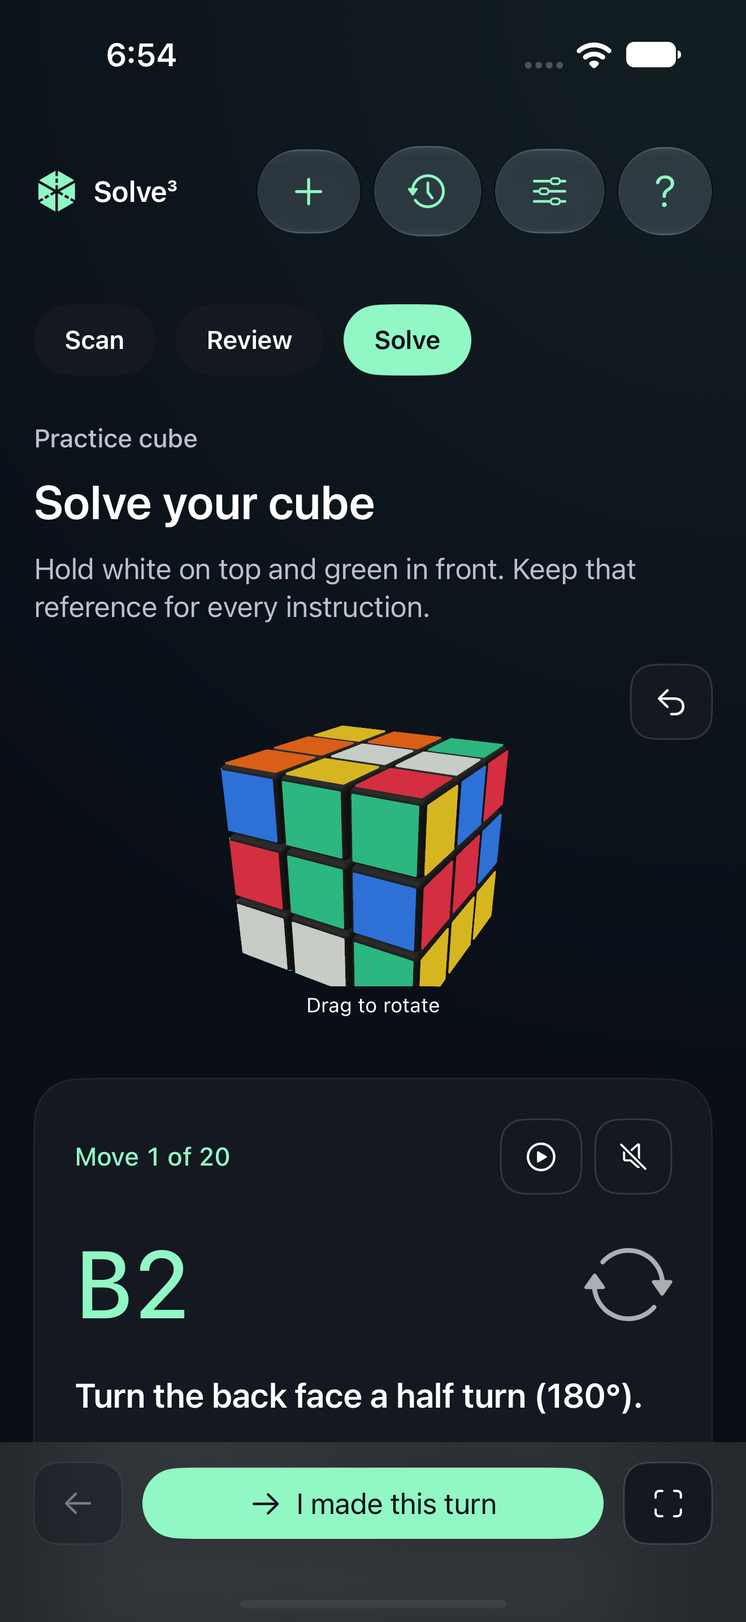
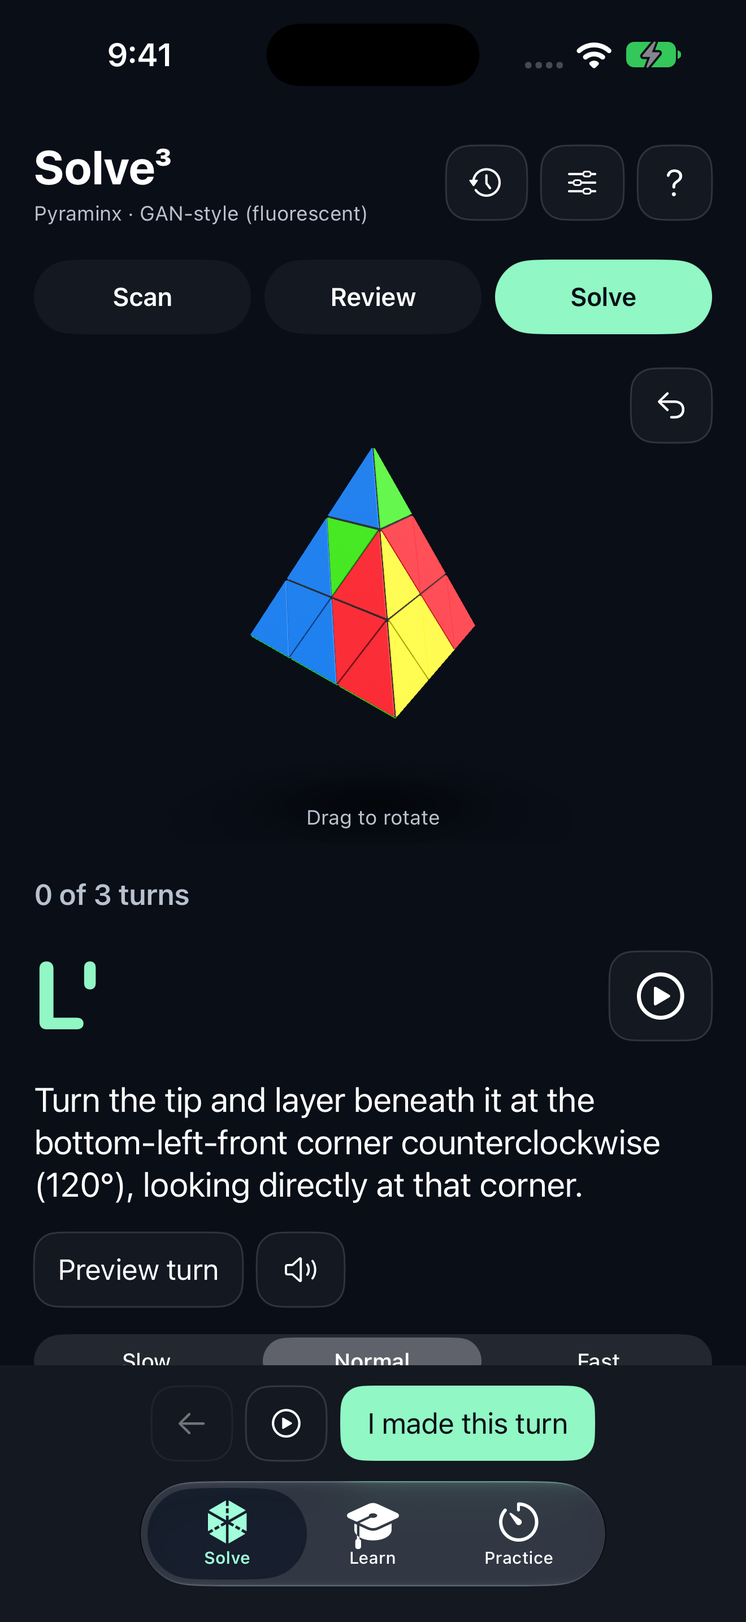
Show expanded Solve workspace with refreshed app screenshots

diff --git a/index.html b/index.html
@@ -1,1 +1,1 @@
-<!doctype html><html lang="en"><head><meta charset="utf-8"><meta name="viewport" content="width=device-width,initial-scale=1"><title>Solve³</title><meta name="description" content="Choose your puzzle. Capture its faces, review the colors and follow animated turns. Native puzzle guidance for iPhone, iPad and Mac."><link rel="stylesheet" href="marketing.css?v=7"><link rel="icon" href="assets/app-icon.png"><link rel="apple-touch-icon" href="assets/app-icon.png"></head><body><header><a class="brand" href="index.html"><img class="brand-icon" src="assets/app-icon.png" width="40" height="40" alt=""><span>Solve³ <small>by FreeRange Labs</small></span></a><nav aria-label="Main"><a href="#how">How it works</a><a href="support.html">Support</a><a href="privacy.html">Privacy</a></nav></header><main><section class="hero"><div class="hero-copy"><p class="eyebrow">For the cube in your hands.</p><h1>One clear turn.<br><em>Then the next.</em></h1><p class="intro">A scrambled cube doesn’t need to stay a mystery. Choose a 2×2 through 7×7 cube, Pyraminx or Skewb. Capture each face, check the colors, and follow an animated 3D guide at your own pace.</p><a class="button" href="#how">See how it works <span aria-hidden="true">↘</span></a><p class="availability">iPhone, iPad &amp; Mac · $4.99 USD one-time purchase at launch · Expanded puzzle update in final QA; earlier 3×3 build awaiting App Store review</p><div class="promise"><span>On-device processing</span><span>No ads or app account</span><span>Your pace</span></div></div><div class="hero-art"><div class="orbit orbit-one"></div><div class="orbit orbit-two"></div><div class="notation" aria-hidden="true">R2 <span>U′</span> F</div><figure class="phone"><img src="assets/iphone-guide.png?v=6" alt="Actual iPhone app: a 3D practice cube, plain-language turn instruction and the I made this turn control." width="1320" height="2868"><figcaption>Original 3×3 interface · expanded update in final QA</figcaption></figure><div class="turn-chip"><span class="turn-icon" aria-hidden="true">↻</span><div><strong>Preview the layer.</strong><small>Keep your place in the solve.</small></div></div></div></section><section id="how" class="workflow"><div class="section-heading"><p class="eyebrow">A simple rhythm</p><h2>From scrambled<br>to understandable.</h2><p>Every step gives you a chance to check, correct and continue.</p></div><div class="steps"><article><span class="step">01</span><div class="scan-graphic" aria-hidden="true"><i></i><div class="tiles"><b></b><b></b><b></b><b></b><b></b><b></b><b></b><b></b><b></b></div></div><h3>Choose. Capture. Review.</h3><p>Select your puzzle in Settings, then use the main Solve screen. Capture or import each face, or enter colors manually. Orientation labels keep your reference consistent.</p></article><article><span class="step">02</span><div class="swatches" aria-hidden="true"><b></b><b></b><b></b><b></b><b></b><b></b></div><h3>Make the colors yours.</h3><p>Check every suggested sticker and confirm every face. The original 3×3 workflow includes center-color calibration; every puzzle has editable colors and matching face layouts.</p></article><article><span class="step">03</span><div class="move-graphic" aria-hidden="true"><strong>R2</strong><span>↻</span></div><h3>Follow one turn.</h3><p>Preview the moving layer, read the instruction, then advance after making the physical turn. Backtracking is always available.</p></article></div></section><section class="desktop"><div><p class="eyebrow">Room to see the whole solve</p><h2>Just as thoughtful<br>on your Mac.</h2><p>A native desktop layout pairs the cube with its next instruction. Drag to inspect, preview a layer, and keep the sequence close.</p><p class="fine">Puzzle captures, progress and saved solutions stay on each device. Optional iCloud or folder sync covers timer results, training progress and cube profiles.</p></div><figure class="mac"><div class="mac-display"><img src="assets/mac-guide.png?v=6" alt="Actual Mac app with a large practice cube beside the B2 instruction and Preview this turn button." width="2360" height="1640"></div><div class="mac-stand"></div><figcaption>Native macOS app · practice guide</figcaption></figure></section><section class="details"><div class="calibration"><img src="assets/calibration.png?v=6" alt="iPhone calibration settings provide an individual capture control for each of the six center colors." width="1320" height="2868"></div><div><p class="eyebrow">A little variation is normal</p><h2>Your cube.<br>Your colors.</h2><p>Different cube palettes and lighting can change how stickers look. Choose standard stickered, speed, GAN-style, white-body or smart-cube finishes. Photo-guided palettes and rounded pieces bring each model closer to the puzzle in your hands. Center calibration remains available for 3×3 captures.</p><ul><li>2×2–7×7 cubes, Pyraminx and Skewb in one Solve workspace</li><li>Separate progress and saved solutions for each puzzle</li><li>Timer, algorithm drills, patterns and learning lessons</li><li>Editable square, triangular and diamond sticker grids</li><li>Optional spoken instructions</li><li>Local solution history and text sharing</li><li>Complete orientation, notation and recovery help</li></ul><a class="text-link" href="support.html">Explore the support guide →</a></div></section><section class="closing"><p class="eyebrow">Clear expectations. Better solves.</p><h2>More puzzles.<br>The same clear rhythm.</h2><p>The upcoming update adds 2×2–7×7, Pyraminx and Skewb to the original 3×3 workflow. One photo cannot reveal hidden stickers: capture and confirm every face. Glare and difficult lighting may need a correction or retake. Solutions are replay-verified. Large-cube reduction routes can be long and are not guaranteed shortest. Smart-cube Bluetooth tools are experimental; camera and manual 3×3 solving work independently. The virtual cube shows a predicted state; it is not an AR overlay anchored to your physical cube.</p><a class="button" href="mailto:FreeRangeLabs@drumnbus.com">Contact FreeRange Labs</a></section></main><footer><div><strong>Solve³</strong><p>© 2026 FreeRange Labs</p></div><nav aria-label="Footer"><a href="support.html">Support</a><a href="privacy.html">Privacy policy</a><a href="mailto:FreeRangeLabs@drumnbus.com">Email us</a></nav><p class="legal">Independent product. Not affiliated with or endorsed by the makers of Rubik’s or GAN cubes. Screenshots show the actual app; device presentations are illustrative.</p></footer></body></html>
+<!doctype html><html lang="en"><head><meta charset="utf-8"><meta name="viewport" content="width=device-width,initial-scale=1"><title>Solve³</title><meta name="description" content="Choose your puzzle. Capture its faces, review the colors and follow animated turns. Native puzzle guidance for iPhone, iPad and Mac."><link rel="stylesheet" href="marketing.css?v=8"><link rel="icon" href="assets/app-icon.png"><link rel="apple-touch-icon" href="assets/app-icon.png"></head><body><header><a class="brand" href="index.html"><img class="brand-icon" src="assets/app-icon.png" width="40" height="40" alt=""><span>Solve³ <small>by FreeRange Labs</small></span></a><nav aria-label="Main"><a href="#how">How it works</a><a href="support.html">Support</a><a href="privacy.html">Privacy</a></nav></header><main><section class="hero"><div class="hero-copy"><p class="eyebrow">For the cube in your hands.</p><h1>One clear turn.<br><em>Then the next.</em></h1><p class="intro">A scrambled cube doesn’t need to stay a mystery. Choose a 2×2 through 7×7 cube, Pyraminx or Skewb. Capture each face, check the colors, and follow an animated 3D guide at your own pace.</p><a class="button" href="#how">See how it works <span aria-hidden="true">↘</span></a><p class="availability">iPhone, iPad &amp; Mac · $4.99 USD one-time purchase at launch · Version 1.2.0 · expanded puzzle update prepared for App Store review</p><div class="promise"><span>On-device processing</span><span>No ads or app account</span><span>Your pace</span></div></div><div class="hero-art"><div class="orbit orbit-one"></div><div class="orbit orbit-two"></div><div class="notation" aria-hidden="true">R2 <span>U′</span> F</div><figure class="phone"><img src="assets/iphone-guide.png?v=8" alt="Actual updated iPhone app: Pyraminx, a corner-turn instruction and the I made this turn control." width="1320" height="2868"><figcaption>Actual version 1.2.0 interface</figcaption></figure><div class="turn-chip"><span class="turn-icon" aria-hidden="true">↻</span><div><strong>Preview the layer.</strong><small>Keep your place in the solve.</small></div></div></div></section><section id="how" class="workflow"><div class="section-heading"><p class="eyebrow">A simple rhythm</p><h2>From scrambled<br>to understandable.</h2><p>Every step gives you a chance to check, correct and continue.</p></div><div class="steps"><article><span class="step">01</span><div class="scan-graphic" aria-hidden="true"><i></i><div class="tiles"><b></b><b></b><b></b><b></b><b></b><b></b><b></b><b></b><b></b></div></div><h3>Choose. Capture. Review.</h3><p>Select your puzzle in Settings, then use the main Solve screen. Capture or import each face, or enter colors manually. Orientation labels keep your reference consistent.</p></article><article><span class="step">02</span><div class="swatches" aria-hidden="true"><b></b><b></b><b></b><b></b><b></b><b></b></div><h3>Make the colors yours.</h3><p>Check every suggested sticker and confirm every face. The original 3×3 workflow includes center-color calibration; every puzzle has editable colors and matching face layouts.</p></article><article><span class="step">03</span><div class="move-graphic" aria-hidden="true"><strong>R2</strong><span>↻</span></div><h3>Follow one turn.</h3><p>Preview the moving layer, read the instruction, then advance after making the physical turn. Backtracking is always available.</p></article></div></section><section class="desktop"><div><p class="eyebrow">Room to see the whole solve</p><h2>Just as thoughtful<br>on your Mac.</h2><p>A native desktop layout pairs the cube with its next instruction. Drag to inspect, preview a layer, and keep the sequence close.</p><p class="fine">Puzzle captures, progress and saved solutions stay on each device. Optional iCloud or folder sync covers timer results, training progress and cube profiles.</p></div><figure class="mac"><div class="mac-display"><img src="assets/mac-guide.png?v=8" alt="Actual updated Mac app showing the Pyraminx guide and animated-turn preview controls." width="2360" height="1640"></div><div class="mac-stand"></div><figcaption>Native macOS app · practice guide</figcaption></figure></section><section class="details"><div class="calibration"><img src="assets/calibration.png?v=8" alt="Updated Settings picker brings 2×2–7×7, Smart 3×3, Pyraminx and Skewb into the main Solve screen." width="1320" height="2868"></div><div><p class="eyebrow">A little variation is normal</p><h2>Your cube.<br>Your colors.</h2><p>Different cube palettes and lighting can change how stickers look. Choose standard stickered, speed, GAN-style, white-body or smart-cube finishes. Photo-guided palettes and rounded pieces bring each model closer to the puzzle in your hands. Center calibration remains available for 3×3 captures.</p><ul><li>2×2–7×7 cubes, Pyraminx and Skewb in one Solve workspace</li><li>Separate progress and saved solutions for each puzzle</li><li>Timer, algorithm drills, patterns and learning lessons</li><li>Editable square, triangular and diamond sticker grids</li><li>Optional spoken instructions</li><li>Local solution history and text sharing</li><li>Complete orientation, notation and recovery help</li></ul><a class="text-link" href="support.html">Explore the support guide →</a></div></section><section class="closing"><p class="eyebrow">Clear expectations. Better solves.</p><h2>More puzzles.<br>The same clear rhythm.</h2><p>The upcoming update adds 2×2–7×7, Pyraminx and Skewb to the original 3×3 workflow. One photo cannot reveal hidden stickers: capture and confirm every face. Glare and difficult lighting may need a correction or retake. Solutions are replay-verified. Large-cube reduction routes can be long and are not guaranteed shortest. Smart-cube Bluetooth tools are experimental; camera and manual 3×3 solving work independently. The virtual cube shows a predicted state; it is not an AR overlay anchored to your physical cube.</p><a class="button" href="mailto:FreeRangeLabs@drumnbus.com">Contact FreeRange Labs</a></section></main><footer><div><strong>Solve³</strong><p>© 2026 FreeRange Labs</p></div><nav aria-label="Footer"><a href="support.html">Support</a><a href="privacy.html">Privacy policy</a><a href="mailto:FreeRangeLabs@drumnbus.com">Email us</a></nav><p class="legal">Independent product. Not affiliated with or endorsed by the makers of Rubik’s or GAN cubes. Screenshots show the actual app; device presentations are illustrative.</p></footer></body></html>

diff --git a/support.html b/support.html
@@ -1,1 +1,1 @@
-<!doctype html><html lang="en"><head><meta charset="utf-8"><meta name="viewport" content="width=device-width,initial-scale=1"><title>Support · Solve³</title><link rel="stylesheet" href="style.css"><meta name="description" content="Solve³: on-device cube and puzzle guidance, support and privacy."><link rel="icon" href="assets/app-icon.png"><link rel="apple-touch-icon" href="assets/app-icon.png"></head><body><main><nav aria-label="Main"><a href="index.html">Solve³</a><a href="support.html">Support</a><a href="privacy.html">Privacy</a></nav><h1>Every turn, explained.</h1><p>For support, contact FreeRangeLabs@drumnbus.com.</p><h2>Expanded puzzle update</h2><p>The expanded version is in final QA. The earlier 3×3 build is awaiting App Store review. The new version brings 2×2–7×7 cubes, Smart 3×3, Pyraminx and Skewb into the main Solve screen; choose the puzzle in Settings. Each puzzle retains its own progress.</p><h2>Start a solve</h2><p>Open Scan and capture or import one face at a time, or enter colors manually. Follow the face-above label to keep the grid upright. Turn the whole cube between captures without twisting any layer. One picture cannot reveal hidden stickers. Review every suggested sticker and confirm every face, then solve. Pyraminx has four triangular faces; cubes and Skewb have six faces.</p><h2>Camera or colors need help</h2><p>Use even light without flash, keep fingers off stickers and show a complete face. For 3×3, automatic corners can be adjusted manually. For other puzzles, align the square or triangular outline with the photographed face. Confirm the actual center color if the model misreads it. Rotate the grid only when the photo’s orientation is wrong. Camera access can be enabled in iPhone Settings or Mac System Settings → Privacy &amp; Security → Camera. Imported photos and manual entry work without camera permission.</p><p>For 3×3, Cube settings → Color calibration lists all six center samples. Capture a named missing center without changing the current cube or guide. Calibration activates after all six usable samples exist. Reset or recapture when changing cubes or lighting. A dark or uneven patch requires a retake. Previously missing samples cannot be recreated from sticker labels; take a fresh photo.</p><h2>Follow the guide</h2><p>Keep the selected top/front reference. A plain letter is clockwise as viewed directly at that face; an apostrophe reverses it; 2 means a half turn. Preview turns the moving pieces and smoothly returns them to the current step without advancing. A number before a letter, such as 2R, means only that inner layer from the named face. Pyraminx and Skewb use 120° corner-axis turns; lowercase Pyraminx letters turn only a tip. Make the physical move, then select I made this turn. Use Back only after undoing the physical turn when necessary. Dragging the virtual cube does not move your actual cube or advance the guide. Reset the reference view with the arrow on the cube.</p><p>The virtual cube is a predicted state, not a physical AR overlay. The 3×3 camera turn-tracking tool requires stable, upright before/after views and can decline to confirm ambiguous faces. If it waits, improve lighting and calibration or advance manually after checking the turn. If you lose track, scan the cube again as it is now.</p><h2>Invalid cube state</h2><p>Check color counts, orientation, duplicate pieces and that every face is confirmed. If scans are correct, a twisted corner, flipped edge or swapped pieces can make a cube physically unreachable. The solver does not silently change your colors.</p><h2>Saved work and limits</h2><p>Puzzle history, captures, calibration and guide progress stay on each device. Raw photos are not retained. Optional iCloud or folder synchronization covers timer results, training progress and cube profiles, not puzzle photos or solution history. The expanded version supports 2×2–7×7 cubes, Pyraminx and Skewb. Mirror cubes and picture-center orientation are not supported. Large-cube routes can be long; verified solutions do not imply a shortest route.</p><h2>Practice and learning</h2><p>Practice contains the timer, algorithm drills, patterns and experimental smart-cube tools. Puzzle selection and solving are in Solve and Settings. Learn offers guided 3×3 lessons. Bluetooth operation depends on a compatible cube and permission; regular capture and manual solving do not require pairing.</p><h2>Contact checklist</h2><p>Provide app version, device and OS, workflow step, lighting and whether you calibrated. Describe what you expected and what occurred. Only attach cube-only pictures you choose to share; avoid faces, addresses or other personal information. Contact FreeRangeLabs@drumnbus.com.</p><footer>© 2026 FreeRange Labs · <a href="mailto:FreeRangeLabs@drumnbus.com">FreeRangeLabs@drumnbus.com</a><p>Independent product. Not affiliated with or endorsed by the makers of Rubik’s or GAN cubes.</p></footer></main></body></html>
+<!doctype html><html lang="en"><head><meta charset="utf-8"><meta name="viewport" content="width=device-width,initial-scale=1"><title>Support · Solve³</title><link rel="stylesheet" href="style.css"><meta name="description" content="Solve³: on-device cube and puzzle guidance, support and privacy."><link rel="icon" href="assets/app-icon.png"><link rel="apple-touch-icon" href="assets/app-icon.png"></head><body><main><nav aria-label="Main"><a href="index.html">Solve³</a><a href="support.html">Support</a><a href="privacy.html">Privacy</a></nav><h1>Every turn, explained.</h1><p>For support, contact FreeRangeLabs@drumnbus.com.</p><h2>Expanded puzzle update</h2><p>Version 1.2.0 has completed release QA and is being prepared for App Store review. The new version brings 2×2–7×7 cubes, Smart 3×3, Pyraminx and Skewb into the main Solve screen; choose the puzzle in Settings. Each puzzle retains its own progress.</p><h2>Start a solve</h2><p>Open Scan and capture or import one face at a time, or enter colors manually. Follow the face-above label to keep the grid upright. Turn the whole cube between captures without twisting any layer. One picture cannot reveal hidden stickers. Review every suggested sticker and confirm every face, then solve. Pyraminx has four triangular faces; cubes and Skewb have six faces.</p><h2>Camera or colors need help</h2><p>Use even light without flash, keep fingers off stickers and show a complete face. For 3×3, automatic corners can be adjusted manually. For other puzzles, align the square or triangular outline with the photographed face. Confirm the actual center color if the model misreads it. Rotate the grid only when the photo’s orientation is wrong. Camera access can be enabled in iPhone Settings or Mac System Settings → Privacy &amp; Security → Camera. Imported photos and manual entry work without camera permission.</p><p>For 3×3, Cube settings → Color calibration lists all six center samples. Capture a named missing center without changing the current cube or guide. Calibration activates after all six usable samples exist. Reset or recapture when changing cubes or lighting. A dark or uneven patch requires a retake. Previously missing samples cannot be recreated from sticker labels; take a fresh photo.</p><h2>Follow the guide</h2><p>Keep the selected top/front reference. A plain letter is clockwise as viewed directly at that face; an apostrophe reverses it; 2 means a half turn. Preview turns the moving pieces and smoothly returns them to the current step without advancing. A number before a letter, such as 2R, means only that inner layer from the named face. Pyraminx and Skewb use 120° corner-axis turns; lowercase Pyraminx letters turn only a tip. Make the physical move, then select I made this turn. Use Back only after undoing the physical turn when necessary. Dragging the virtual cube does not move your actual cube or advance the guide. Reset the reference view with the arrow on the cube.</p><p>The virtual cube is a predicted state, not a physical AR overlay. The 3×3 camera turn-tracking tool requires stable, upright before/after views and can decline to confirm ambiguous faces. If it waits, improve lighting and calibration or advance manually after checking the turn. If you lose track, scan the cube again as it is now.</p><h2>Invalid cube state</h2><p>Check color counts, orientation, duplicate pieces and that every face is confirmed. If scans are correct, a twisted corner, flipped edge or swapped pieces can make a cube physically unreachable. The solver does not silently change your colors.</p><h2>Saved work and limits</h2><p>Puzzle history, captures, calibration and guide progress stay on each device. Raw photos are not retained. Optional iCloud or folder synchronization covers timer results, training progress and cube profiles, not puzzle photos or solution history. The expanded version supports 2×2–7×7 cubes, Pyraminx and Skewb. Mirror cubes and picture-center orientation are not supported. Large-cube routes can be long; verified solutions do not imply a shortest route.</p><h2>Practice and learning</h2><p>Practice contains the timer, algorithm drills, patterns and experimental smart-cube tools. Puzzle selection and solving are in Solve and Settings. Learn offers guided 3×3 lessons. Bluetooth operation depends on a compatible cube and permission; regular capture and manual solving do not require pairing.</p><h2>Contact checklist</h2><p>Provide app version, device and OS, workflow step, lighting and whether you calibrated. Describe what you expected and what occurred. Only attach cube-only pictures you choose to share; avoid faces, addresses or other personal information. Contact FreeRangeLabs@drumnbus.com.</p><footer>© 2026 FreeRange Labs · <a href="mailto:FreeRangeLabs@drumnbus.com">FreeRangeLabs@drumnbus.com</a><p>Independent product. Not affiliated with or endorsed by the makers of Rubik’s or GAN cubes.</p></footer></main></body></html>

diff --git a/privacy.html b/privacy.html
@@ -1,1 +1,1 @@
-<!doctype html><html lang="en"><head><meta charset="utf-8"><meta name="viewport" content="width=device-width,initial-scale=1"><title>Privacy policy · Solve³</title><link rel="stylesheet" href="style.css"><meta name="description" content="Solve³: on-device cube and puzzle guidance, support and privacy."><link rel="icon" href="assets/app-icon.png"><link rel="apple-touch-icon" href="assets/app-icon.png"></head><body><main><nav aria-label="Main"><a href="index.html">Solve³</a><a href="support.html">Support</a><a href="privacy.html">Privacy</a></nav><h1>Privacy policy</h1><p>Updated 14 October 2026 for the expanded puzzle version, currently in final QA. Publisher: FreeRange Labs.</p><p>Solve³ processes cube photos, camera frames, color predictions and solving on your device. We do not run a service that receives these images or cube states. The app has no developer-operated account, advertising, tracking or analytics SDK.</p><p>Raw camera frames and selected photos are used temporarily for recognition and are not saved by the app. The app saves your current sticker grid, orientation scheme, progress, optional center RGB calibration and solution records locally. Each puzzle has its own local progress and solution history. The original 3×3 history uses SwiftData with a JSON recovery copy.</p><p>Optional synchronization transfers timer results, training progress and cube profiles through your Apple iCloud account or a folder you choose. Puzzle photographs, captured sticker states and solution history are not included. You can leave synchronization disabled. Apple or your chosen folder provider handles that storage under its own privacy terms; FreeRange Labs does not receive it.</p><p>Experimental smart-cube tools use Bluetooth permission to connect to compatible nearby cubes and receive cube events. Pairing is optional and does not upload puzzle states to a developer service.</p><p>Camera access is used only for face scanning or the optional camera turn guide. Close the relevant sheet to stop capture. Photo import uses the system picker or a user-selected file. You may deny camera access and use imported photos or manual color entry. Manage camera permission through Apple’s system settings.</p><p>Sharing a solution sends the text to the destination you choose through the system share interface. The recipient’s privacy practices apply. If you contact support, we receive the information you voluntarily send; avoid including personal information in cube photos or logs. Purchases and App Store services are operated by Apple under Apple’s policies.</p><p>You can reset calibration in Cube settings, replace a puzzle’s current capture with Start new, and clear saved solutions in History. These actions affect app records; system backups and exported copies are governed by your device settings and chosen recipients. Uninstalling removes the app’s local container according to Apple’s platform behavior.</p><p>The app does not intentionally collect personal information from children or other users. If future versions add data collection or services, this policy and App Store disclosures must be updated before release.</p><p>Questions or requests: FreeRangeLabs@drumnbus.com.</p><footer>© 2026 FreeRange Labs · <a href="mailto:FreeRangeLabs@drumnbus.com">FreeRangeLabs@drumnbus.com</a><p>Independent product. Not affiliated with or endorsed by the makers of Rubik’s or GAN cubes.</p></footer></main></body></html>
+<!doctype html><html lang="en"><head><meta charset="utf-8"><meta name="viewport" content="width=device-width,initial-scale=1"><title>Privacy policy · Solve³</title><link rel="stylesheet" href="style.css"><meta name="description" content="Solve³: on-device cube and puzzle guidance, support and privacy."><link rel="icon" href="assets/app-icon.png"><link rel="apple-touch-icon" href="assets/app-icon.png"></head><body><main><nav aria-label="Main"><a href="index.html">Solve³</a><a href="support.html">Support</a><a href="privacy.html">Privacy</a></nav><h1>Privacy policy</h1><p>Updated 14 October 2026 for the expanded puzzle version, version 1.2.0. Publisher: FreeRange Labs.</p><p>Solve³ processes cube photos, camera frames, color predictions and solving on your device. We do not run a service that receives these images or cube states. The app has no developer-operated account, advertising, tracking or analytics SDK.</p><p>Raw camera frames and selected photos are used temporarily for recognition and are not saved by the app. The app saves your current sticker grid, orientation scheme, progress, optional center RGB calibration and solution records locally. Each puzzle has its own local progress and solution history. The original 3×3 history uses SwiftData with a JSON recovery copy.</p><p>Optional synchronization transfers timer results, training progress and cube profiles through your Apple iCloud account or a folder you choose. Puzzle photographs, captured sticker states and solution history are not included. You can leave synchronization disabled. Apple or your chosen folder provider handles that storage under its own privacy terms; FreeRange Labs does not receive it.</p><p>Experimental smart-cube tools use Bluetooth permission to connect to compatible nearby cubes and receive cube events. Pairing is optional and does not upload puzzle states to a developer service.</p><p>Camera access is used only for face scanning or the optional camera turn guide. Close the relevant sheet to stop capture. Photo import uses the system picker or a user-selected file. You may deny camera access and use imported photos or manual color entry. Manage camera permission through Apple’s system settings.</p><p>Sharing a solution sends the text to the destination you choose through the system share interface. The recipient’s privacy practices apply. If you contact support, we receive the information you voluntarily send; avoid including personal information in cube photos or logs. Purchases and App Store services are operated by Apple under Apple’s policies.</p><p>You can reset calibration in Cube settings, replace a puzzle’s current capture with Start new, and clear saved solutions in History. These actions affect app records; system backups and exported copies are governed by your device settings and chosen recipients. Uninstalling removes the app’s local container according to Apple’s platform behavior.</p><p>The app does not intentionally collect personal information from children or other users. If future versions add data collection or services, this policy and App Store disclosures must be updated before release.</p><p>Questions or requests: FreeRangeLabs@drumnbus.com.</p><footer>© 2026 FreeRange Labs · <a href="mailto:FreeRangeLabs@drumnbus.com">FreeRangeLabs@drumnbus.com</a><p>Independent product. Not affiliated with or endorsed by the makers of Rubik’s or GAN cubes.</p></footer></main></body></html>
